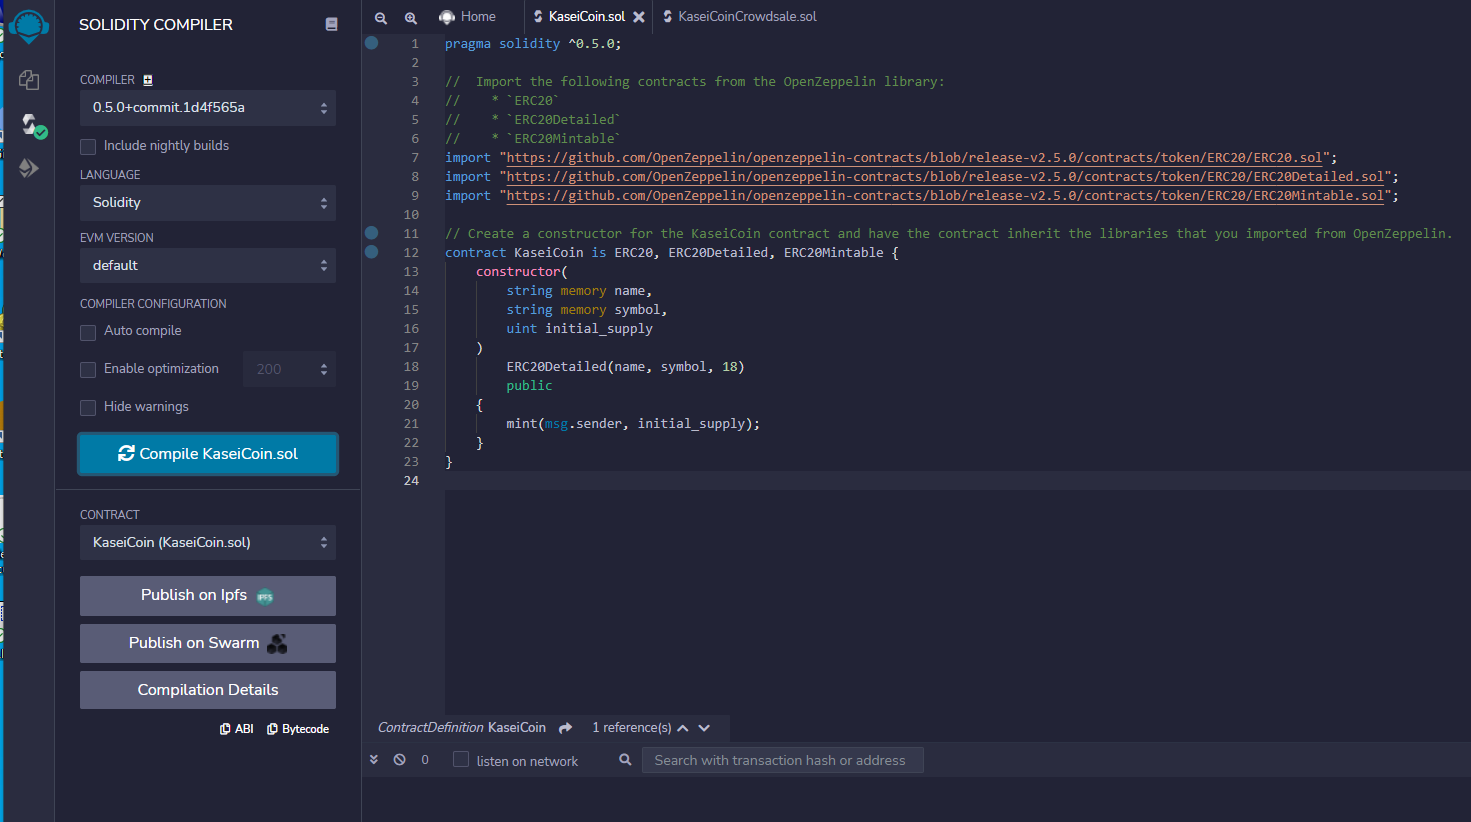
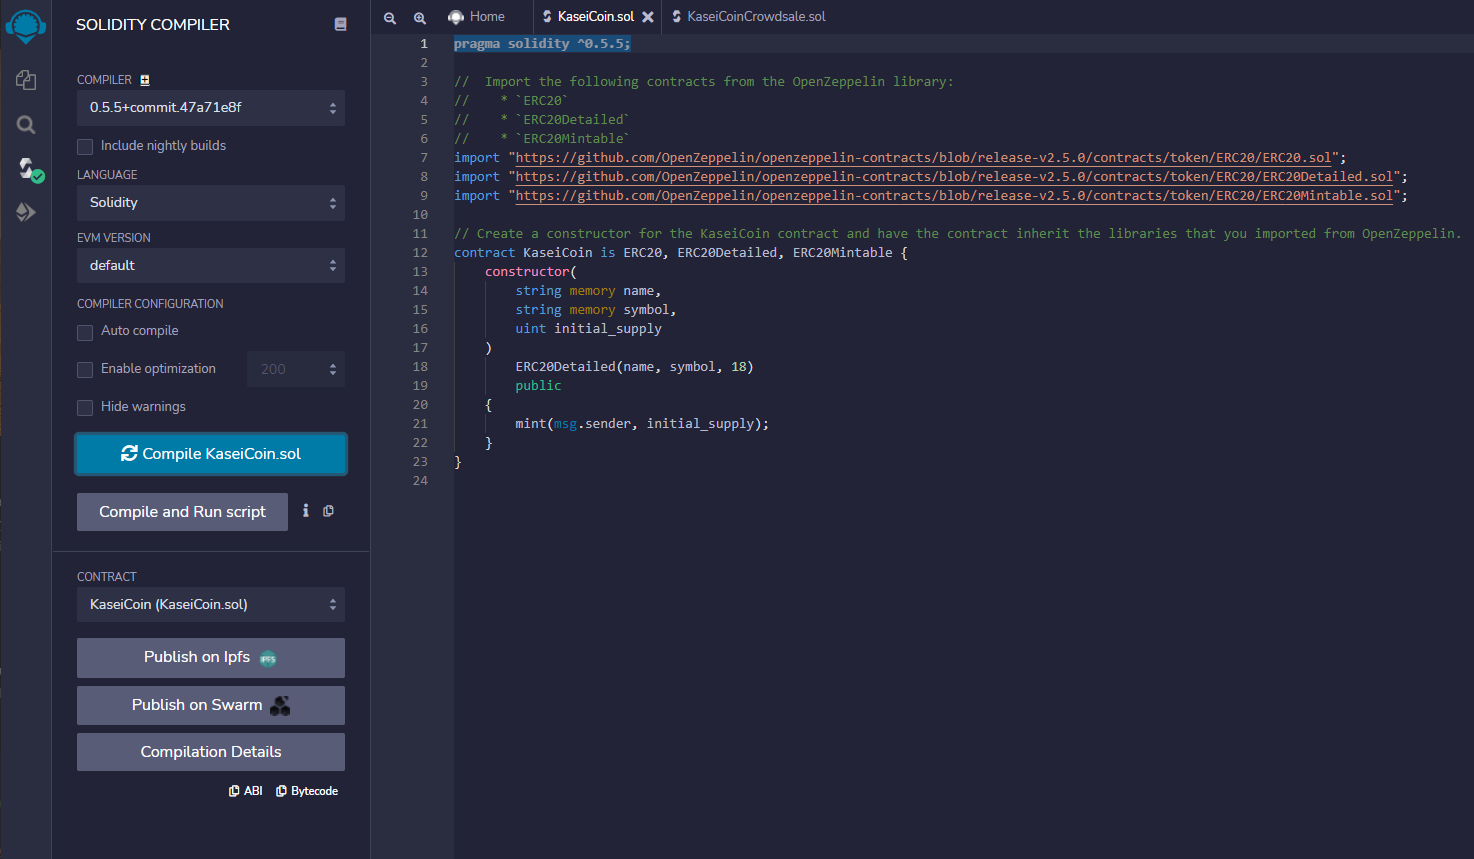
ver 0.5 - Draft(Added further images images)

diff --git a/README.md b/README.md
@@ -4,127 +4,33 @@
 
 ## Background
 
-After waiting for years and passing several tests, the Martian Aerospace Agency selected you to become part of the first human colony on Mars. As a prominent fintech professional, they chose you to lead a project developing a monetary system for the new Mars colony. You decided to base this new system on blockchain technology and to define a new cryptocurrency named **KaseiCoin**. (Kasei means Mars in Japanese.)
+After waiting for years and passing several tests, the Martian Aerospace Agency selected me to become part of the first human colony on Mars. As a prominent fintech professional, they chose me to lead a project developing a monetary system for the new Mars colony. I decided to base this new system on blockchain technology and to define a new cryptocurrency named **KaseiCoin**. (Kasei meaning Mars in Japanese.)
 
-KaseiCoin will be a fungible token that’s ERC-20 compliant. You’ll launch a crowdsale that will allow people who are moving to Mars to convert their earthling money to KaseiCoin.
+KaseiCoin will be a fungible token that’s ERC-20 compliant. I'll launch a crowdsale that will allow people who are moving to Mars to convert their earthling money to KaseiCoin.
 
-## Files
+## Important Note
 
-Download the following files to help you get started:
+The requiements advise to copile the contract by using compiler version 0.5.0. Due to updates in the OpenZepplin import files, the contract needs to be compiled with version 0.5.5. As such this version has been used for consitency in all .sol files. 
 
-[KaseiCoin.sol](./Starter_Code/KaseiCoin.sol)
 
-[KaseiCoinCrowdsale.sol](./Starter_Code/KaseiCoinCrowdsale.com)
+### Create the KaseiCoin Token Contract
 
-## Instructions
+![](https://github.com/apfreeman/Unit-21-Martian-Token-Crowdsale/blob/main/Images/1_coin_compiled.PNG?raw=true)
 
-The steps for this assignment are divided into the following subsections:
 
-1. Create the KaseiCoin Token Contract
+### Create the KaseiCoin Crowdsale Contract
 
-2. Create the KaseiCoin Crowdsale Contract
+![](https://github.com/apfreeman/Unit-21-Martian-Token-Crowdsale/blob/main/Images/2_contract_compiled.PNG?raw=true)
 
-3. Create the KaseiCoin Deployer Contract
 
-4. Deploy and Test the Crowdsale on a Local Blockchain
+### Create the KaseiCoin Deployer Contract
 
-5. Optional: Extend the Crowdsale Contract by Using OpenZeppelin
-
-    > **Note:** You can choose whether to complete the optional section. It’s designed to further your professional growth and development but won’t be graded as part of this assignment. If you choose to complete this section, you’ll use OpenZeppelin to extend the functionality of your crowdsale contract by adding time restrictions, refund capabilities, and a cap for the number of tokens that can be created. If you have any questions about how to complete the optional section, please reach out to your instructional team.
-
-Note that the provided starter files for this homework assignment contain a `pragma` statement for Solidity version 0.5.0. You’ll use the starter files to complete the steps in the subsections.
-
-In the subsections, you’ll create a fungible token that’s ERC-20 compliant. This token will be minted by using a `Crowdsale` contract from the OpenZeppelin Solidity library.
-
-The crowdsale contract that you create will manage the entire crowdsale process. This process will allow users to send ether to the contract and receive KaseiCoin tokens, or **KAI**, in return. Your contract will automatically mint the tokens and distribute them to a buyer in one transaction.
-
-Note that you’ll record a short video or animated GIF or take several screenshots that show the deployed contract in action.
-
-In the `README.md` file of your GitHub repository for this homework assignment, you’ll create a section named Evaluation Evidence. In this section, you’ll share screenshots of your work from each subsection of the assignment.
-
-### Step 1: Create the KaseiCoin Token Contract
-
-In this subsection, you’ll create a smart contract that defines KaseiCoin as an ERC-20 token. To do so, complete the following steps:
-
-1. Import the provided `KaseiCoin.sol` starter file into the Remix IDE.
-
-2. Import the following contracts from the OpenZeppelin library:
-
-    * `ERC20`
-
-    * `ERC20Detailed`
-
-    * `ERC20Mintable`
-
-3. Define a contract for the KaseiCoin token, and name it `KaseiCoin`. Have the contract inherit the three contracts that you just imported from OpenZeppelin.
-
-4. Inside your `KaseiCoin` contract, add a constructor with the following parameters: `name`, `symbol`, and `initial_supply`.
-
-5. As part of your constructor definition, add a call to the constructor of the `ERC20Detailed` contract, passing the parameters `name`, `symbol`, and `18`. (Recall that 18 is the value for the `decimals` parameter.)
-
-6. Compile the contract by using compiler version 0.5.0.
-
-7. Check for any errors, and debug them as needed.
-
-8. Take a screenshot of the successful compilation of the contract, and add it to the Evaluation Evidence section of the `README.md` file for your GitHub repository.
-
-### Step 2: Create the KaseiCoin Crowdsale Contract
-
-In this subsection, you’ll define the KaseiCoin crowdsale contract. To do so, complete the following steps:
-
-1. Import the provided `KaseiCoinCrowdsale.sol` starter code into the Remix IDE.
-
-2. Have this contract inherit the following OpenZeppelin contracts:
-
-    * `Crowdsale`
-
-    * `MintedCrowdsale`
-
-3. In the `KaisenCoinCrowdsale` constructor, provide parameters for all the features of your crowdsale, such as `rate`, `wallet` (where to deposit the funds that the token raises), and `token`. Configure these parameters as you want for your KaseiCoin token.
-
-4. Compile the contract by using compiler version 0.5.0.
-
-5. Check for any errors, and debug them as needed.
-
-6. Take a screenshot of the successful compilation of the contract, and add it to the Evaluation Evidence section of the `README.md` file for your GitHub repository.
-
-### Step 3: Create the KaseiCoin Deployer Contract
+![](https://github.com/apfreeman/Unit-21-Martian-Token-Crowdsale/blob/main/Images/3_deployer_contract_compiled.PNG?raw=true)
 
 In this subsection, you’ll create the KaseiCoin deployer contract. Start by uncommenting the `KaseiCoinCrowdsaleDeployer` contract in the provided `KaseiCoinCrowdsale.sol` starter code.
 
 Next, in the `KaseiCoinCrowdsaleDeployer` contract, you’ll add variables to store the addresses of the `KaseiCoin` and `KaseiCoinCrowdsale` contracts, which this contract will deploy. Finally, you’ll complete the `KaseiCoinCrowdsaleDeployer` contract. To do so, complete the following steps:
 
-1. Create an `address public` variable named `kasei_token_address`, which will store the `KaseiCoin` address once that contract has been deployed.
-
-2. Create an `address public` variable named `kasei_crowdsale_address`, which will store the `KaseiCoinCrowdsale` address once that contract has been deployed.
-
-3. Add the following parameters to the constructor for the `KaseiCoinCrowdsaleDeployer` contract: `name`, `symbol`, and `wallet`.
-
-4. Inside of the constructor body (that is, between the braces), complete the following steps:
-
-    * Create a new instance of the `KaseiCoinToken` contract.
-
-    * Assign the address of the KaseiCoin token contract to the `kasei_token_address` variable. (This will allow you to easily fetch the token's address later.)
-
-    * Create a new instance of the `KaseiCoinCrowdsale` contract by using the following parameters:
-
-      * The `rate` parameter: Set `rate` equal to 1 to maintain parity with ether.
-
-      * The `wallet` parameter: Pass in `wallet` from the main constructor. This is the wallet that will get paid all the ether that the crowdsale contract raises.
-
-      * The `token` parameter: Make this the `token` variable where `KaseiCoin` is stored.
-
-    * Assign the address of the KaseiCoin crowdsale contract to the `kasei_crowdsale_address` variable. (This will allow you to easily fetch the crowdsale’s address later.)
-
-    * Set the `KaseiCoinCrowdsale` contract as a minter.
-
-    * Have the `KaseiCoinCrowdsaleDeployer` renounce its minter role.
-
-5. Compile the contract by using compiler version 0.5.0.
-
-6. Check for any errors, and debug them as needed.
-
-7. Take a screenshot of the successful compilation of the contract, and add it to the Evaluation Evidence section of the `README.md` file for your Git repository.
 
 ### Step 4: Deploy and Test the Crowdsale on a Local Blockchain
 
